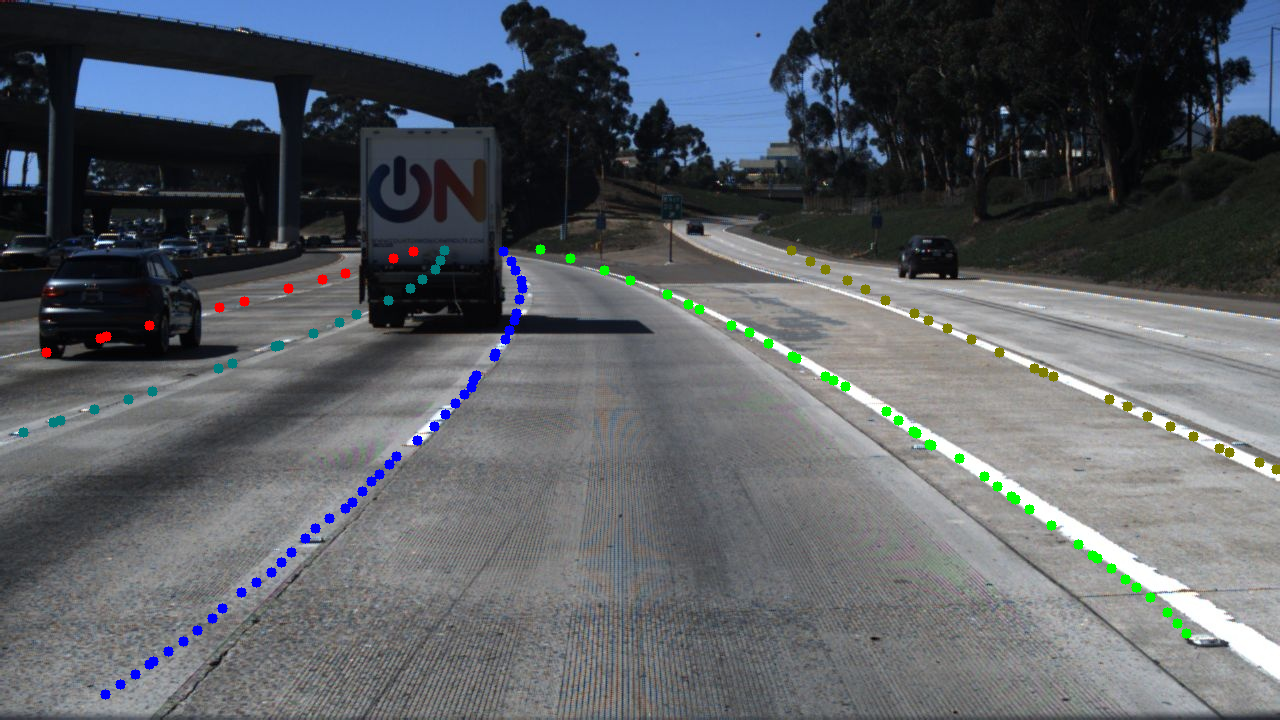
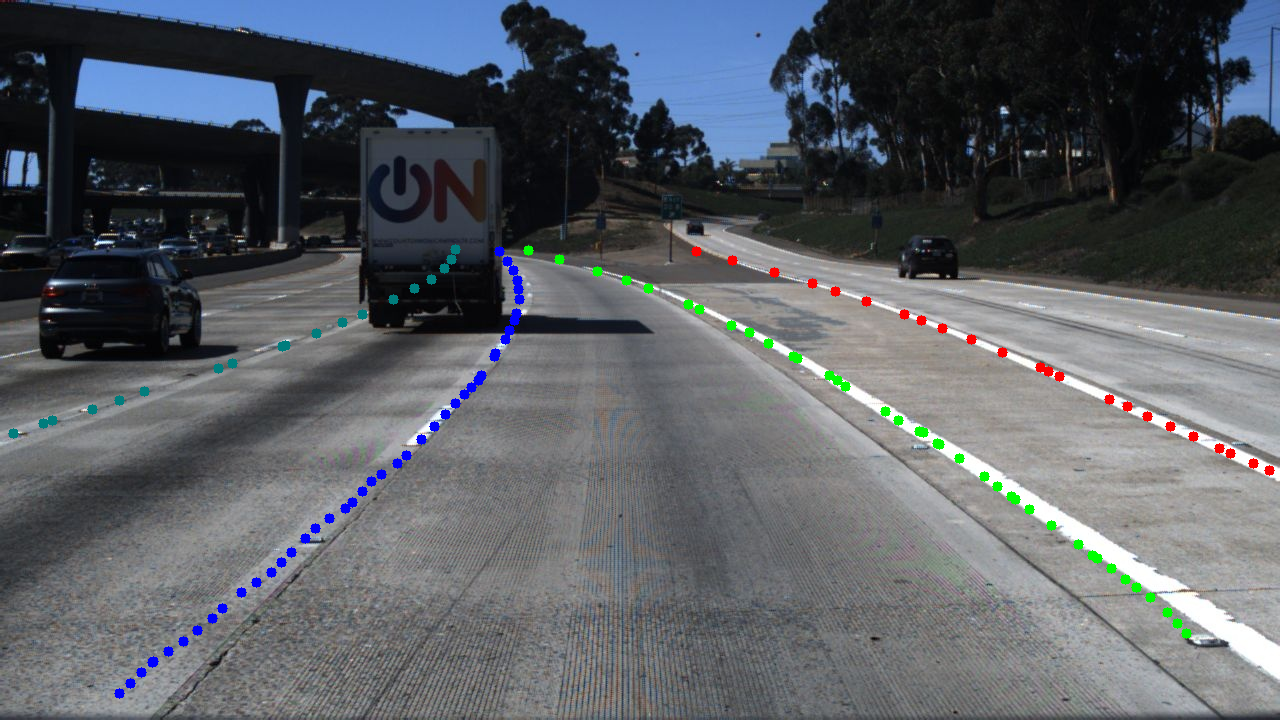
add new source image

diff --git a/config/global_config.py b/config/global_config.py
@@ -71,4 +71,4 @@ __C.POSTPROCESS.MIN_AREA_THRESHOLD = 100
 # Set the post process dbscan search radius threshold
 __C.POSTPROCESS.DBSCAN_EPS = 0.35
 # Set the post process dbscan min samples threshold
-__C.POSTPROCESS.DBSCAN_MIN_SAMPLES = 1500
+__C.POSTPROCESS.DBSCAN_MIN_SAMPLES = 1000
